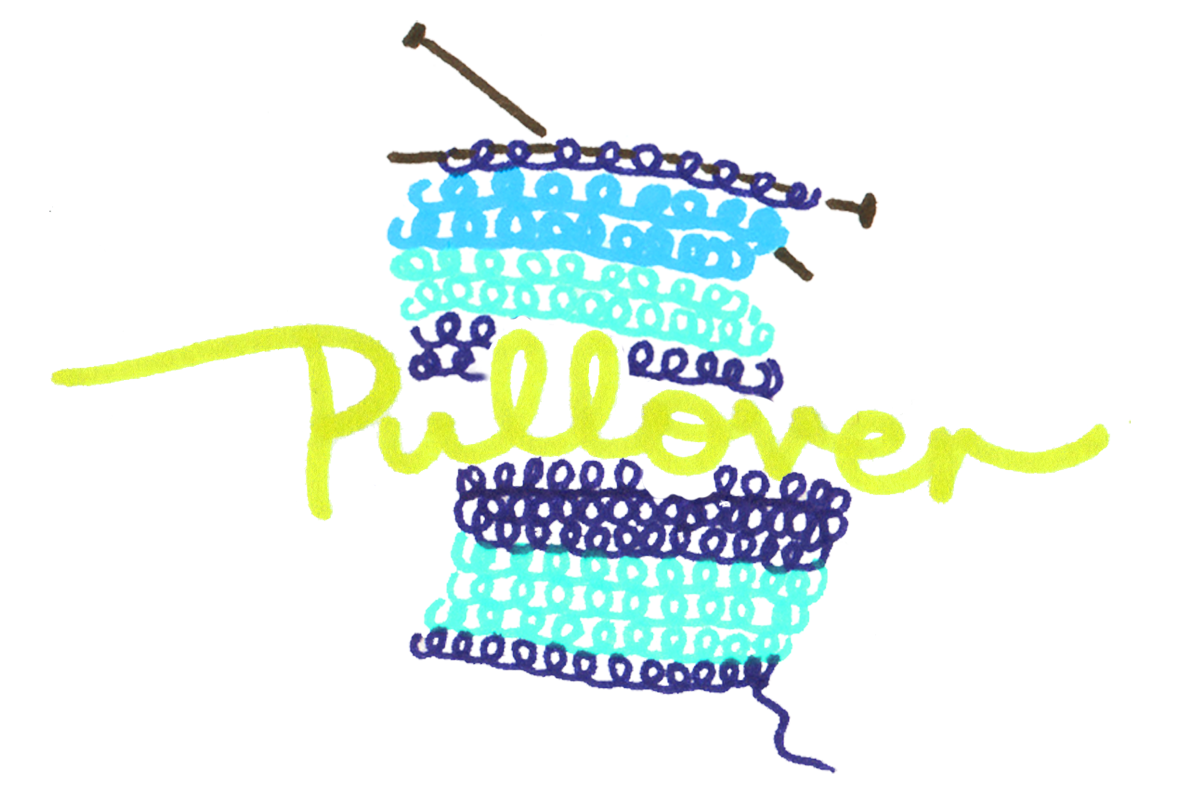
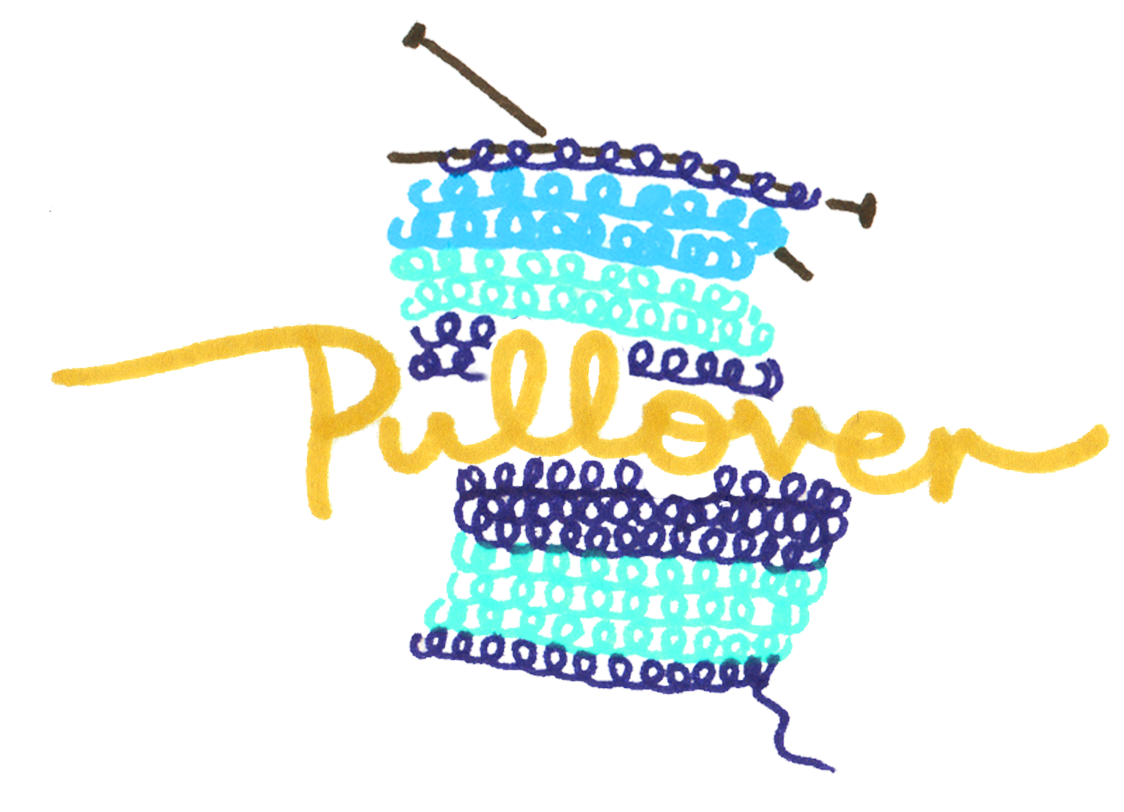
styled index page with title buttons which i put into seeds

Changed region(s): [[0.0311, 0.0308, 0.9964, 0.9544]]

diff --git a/app/assets/stylesheets/application.css b/app/assets/stylesheets/application.css
@@ -1,6 +1,7 @@
 body {
   background-color: #f9eee9;
   font-family: 'Lato', sans-serif;
+  padding: 20px;
 }
 
 .project-title {
@@ -64,17 +65,18 @@ body {
 #main-title {
   text-align: center;
   font-size: 40px;
-  margin: 1px;
-  padding: 2px;
+  margin-bottom: 0px;
+  padding: 0px;
   display: block;
-  margin-top: 70px;
-  color: #42B0EE;
+  margin-top: 30px;
+  color: #E19B43;
 }
 
 #main-interknit {
   text-align: center;
   font-size: 70px;
-  margin: 10px;
+  margin-top: 0px;
+  margin-bottom: 10px;
   width: 80%;
 
 }
@@ -100,7 +102,8 @@ body {
 .projects_list {
   list-style-type: none;
   margin: 0;
-  padding: 10px;
+  padding-left: 30px;
+  padding-right: 0px;
   display: inline-block;
   background-color: none;
   text-decoration: none;
@@ -125,8 +128,8 @@ body {
 
 .application_container {
   float: left;
-  margin-top: -60px;
-  margin-left: 15px;
+  margin-top: -10px;
+  margin-left: 1px;
 }
 
 .logout {

diff --git a/db/seeds.rb b/db/seeds.rb
@@ -12,7 +12,7 @@ Stage.delete_all
 Instruction.delete_all
 
 
-project1 = Project.create(name: "Scarf", difficulty_level: 1)
+project1 = Project.create(name: "Scarf", difficulty_level: 1, image: "scarf_title.png")
 
 project2 = Project.create(name: "Pullover", difficulty_level: 3, image: "pullover_title.png")
 
